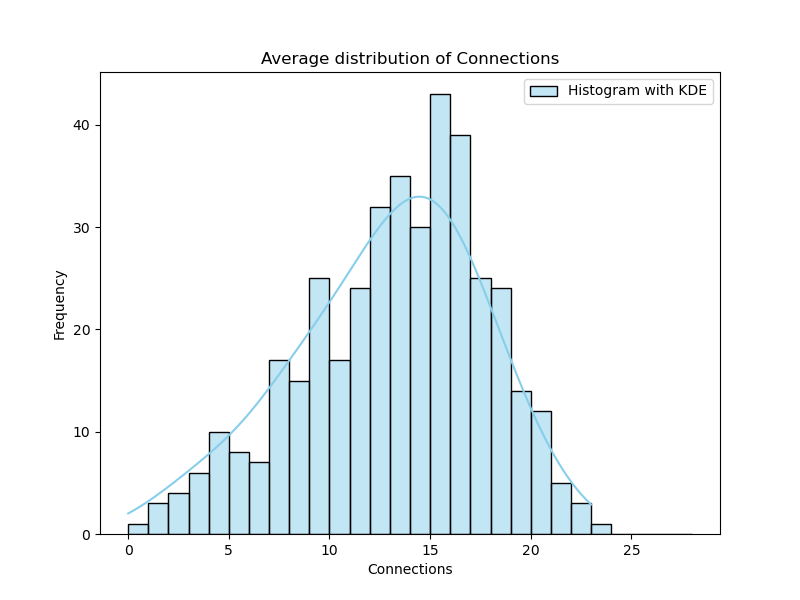
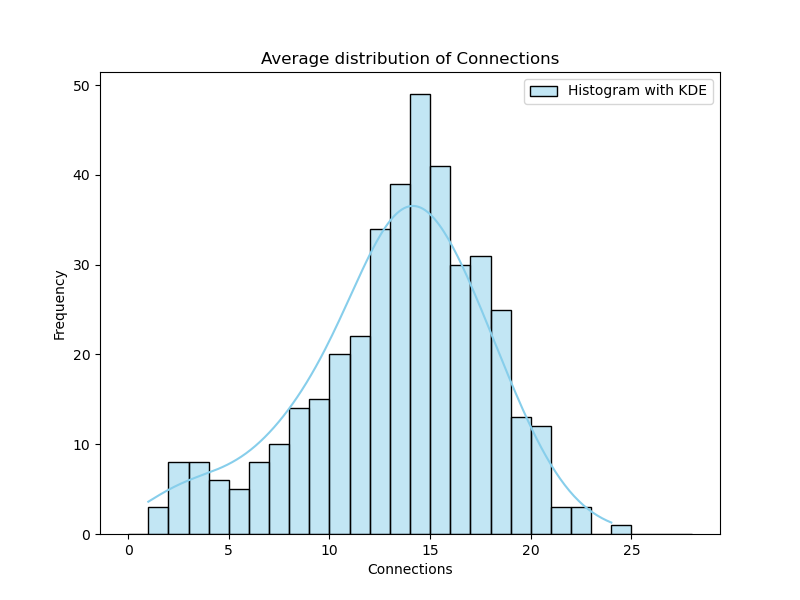
fixed warning
warning in plotting is now removed

diff --git a/code/visualisation/plot_distribution.py b/code/visualisation/plot_distribution.py
@@ -71,11 +71,12 @@ def prepare_data_baseline(iterations, full_connection_dict, original_connection_
     df = pd.DataFrame(results)
 
     average_row = df.mean(numeric_only=True)
+    average_row = pd.DataFrame(average_row).T
 
     # Add a label for the average row
     average_row['Trajectories'] = 'Average'
 
     # Append the average row to the DataFrame
-    df = pd.concat([df, pd.DataFrame([average_row])])
+    df = pd.concat([df, average_row], ignore_index=True)
 
     return total_score, total_connections, df
